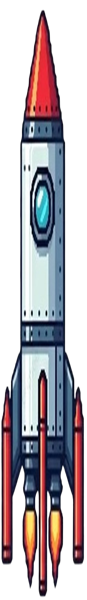
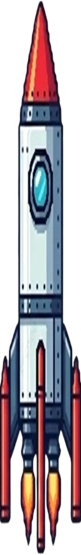
Testing out different backgrounds and changing the pipes to a pillar.

diff --git a/flappy_bird.py b/flappy_bird.py
@@ -20,7 +20,7 @@ start = False
 print('Welcome!\nThe game is about to start!\nClick the mouse to "flap" upwards\nDodge the pipes and the floor\nGood luck and have fun!')
 
 # make background
-background = Actor("space")
+background = Actor("bg3")
 background.x = 400
 background.y = 300
 
@@ -72,7 +72,6 @@ def draw():
             background.draw()
         # draw characters
             bird.draw()
-
         # draw actors
             for pipe in pipeslist:
                 drawPipes(pipe)
